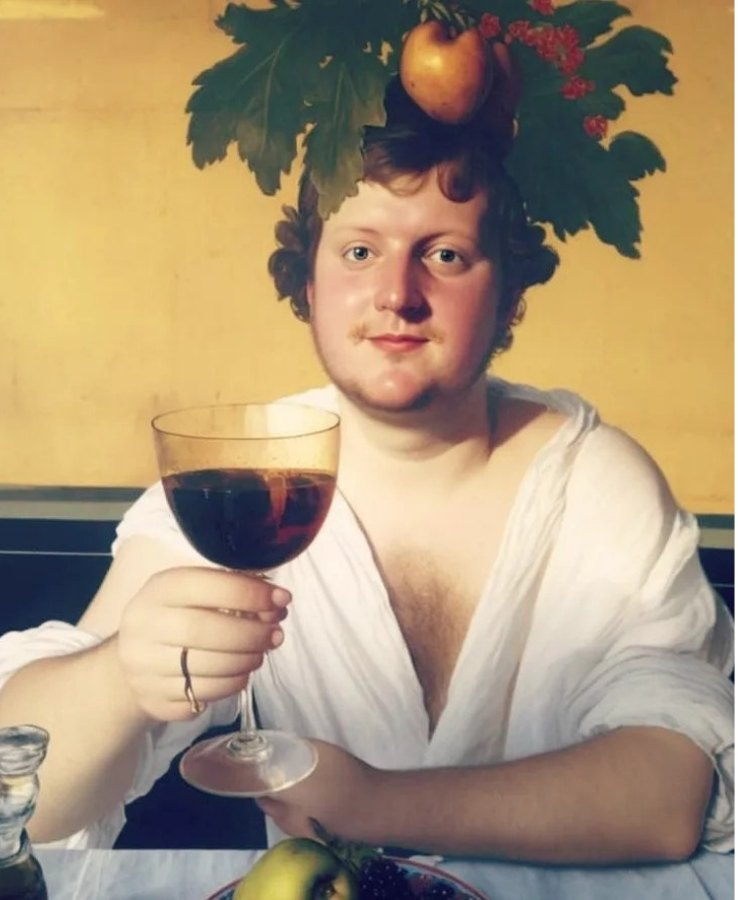
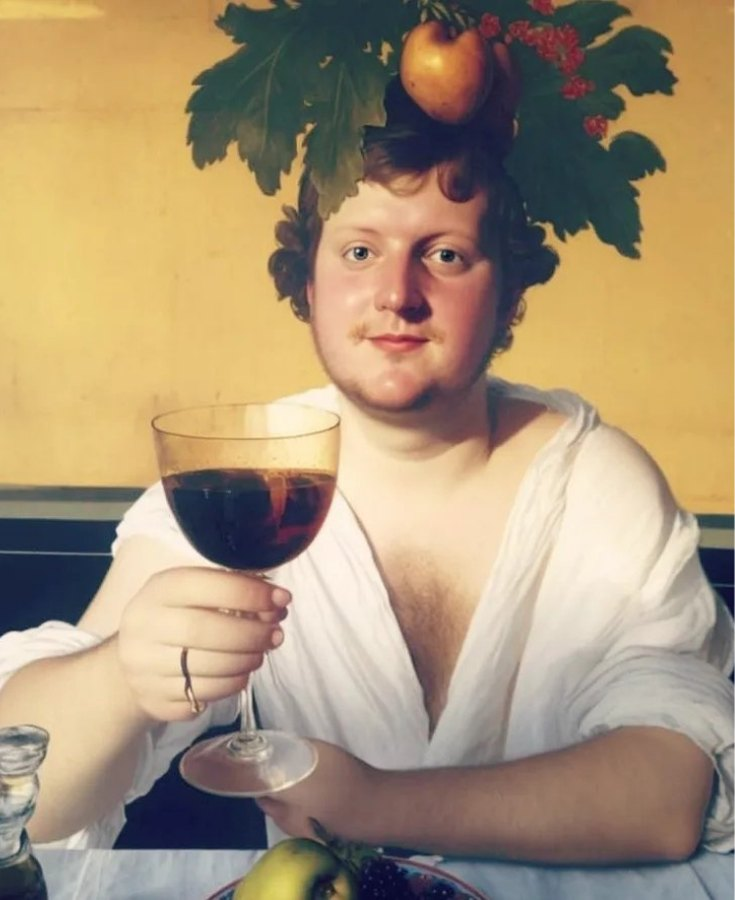
Witte rand van de Bacchus-foto geknipt
Claude-Session: https://claude.ai/code/session_01Ryk5WaS9jLM42ZMXP2ttyP

diff --git a/over-ons.html b/over-ons.html
@@ -37,7 +37,7 @@
     <p>Het sensorische en het sociale samenbrengen aan een tafel vol vrienden, waarbij de liefde voor en dorst naar (kennis over) het edele druivensap centraal staat. Geen snobisme, wel veel goesting.</p>
     <p>We zijn actief in de regio Gent en omstreken, maar voor een goede fles rijden we ver.</p>
    </div>
-   <figure class="portrait"><img src="assets/bacchus.jpg" alt="Een van ons als Bacchus, met wijnblad in het haar en het glas geheven" width="738" height="900"><figcaption>Onze huis-Bacchus. Niet elke proeverij eindigt zo. De meeste wel.</figcaption></figure>
+   <figure class="portrait"><img src="assets/bacchus.jpg" alt="Een van ons als Bacchus, met wijnblad in het haar en het glas geheven" width="735" height="900"><figcaption>Onze huis-Bacchus. Niet elke proeverij eindigt zo. De meeste wel.</figcaption></figure>
   </div>
 </section>
 <section class="section section-bordeaux">

diff --git a/index.html b/index.html
@@ -75,7 +75,7 @@
       <a class="btn btn-solid" href="contact.html">Boek een proeverij</a>
       <a class="btn" href="smaaktest.html">Doe de smaaktest</a>
     </div>
-    <img class="hero-img" src="assets/bacchus.jpg" alt="Onze huis-Bacchus heft het glas" width="738" height="900">
+    <img class="hero-img" src="assets/bacchus.jpg" alt="Onze huis-Bacchus heft het glas" width="735" height="900">
   </div>
 </section>
 
